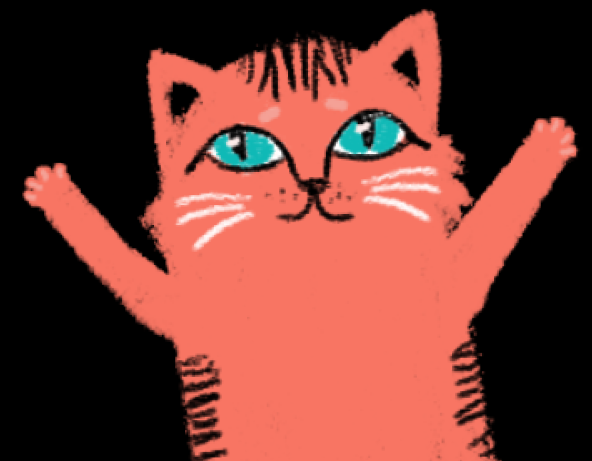
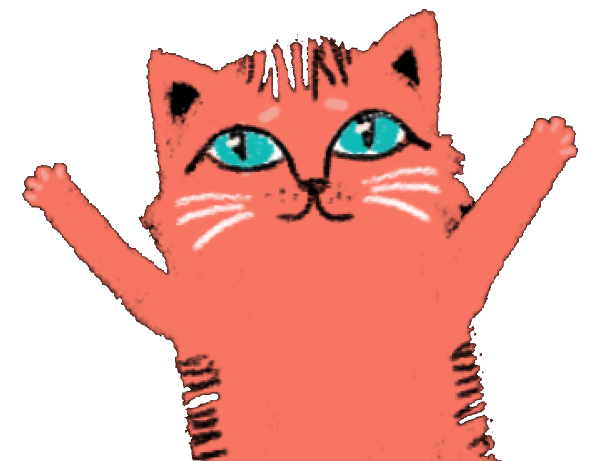
Lighter dark background: #181818 on all pages
Also makes the cat, flame and default avatar images see-through (their
black backgrounds were baked in), so they blend into the new color.

Claude-Session: https://claude.ai/code/session_01Mg7JHh6XbFCk9BGKyPQwh4

diff --git a/privacy.html b/privacy.html
@@ -8,7 +8,7 @@
   <link rel="preconnect" href="https://fonts.gstatic.com" crossorigin>
   <link href="https://fonts.googleapis.com/css2?family=Atkinson+Hyperlegible+Next:wght@400;600;700&family=Atkinson+Hyperlegible:wght@400;700&display=swap" rel="stylesheet">
   <style>
-    :root { --bg: #000; --text: #fff; --muted: #c9c9cf; --highlight: #ffe600; color-scheme: dark; }
+    :root { --bg: #181818; --text: #fff; --muted: #c9c9cf; --highlight: #ffe600; color-scheme: dark; }
     * { box-sizing: border-box; }
     body { margin: 0; background: var(--bg); color: var(--text); font-family: "Atkinson Hyperlegible Next", "Atkinson Hyperlegible", system-ui, sans-serif; line-height: 1.55; }
     main { max-width: 640px; margin: 0 auto; padding: 40px max(20px, env(safe-area-inset-right, 0px)) 64px max(20px, env(safe-area-inset-left, 0px)); }

diff --git a/index.html b/index.html
@@ -11,7 +11,7 @@
 <style>
   /* Single dark look from Helena's mockup: phone column, text block, button bottom right */
   :root {
-    --bg: #000;
+    --bg: #181818;
     --text: #fff;
     --highlight: #ffe600;
     --guide: #3d8bff;
